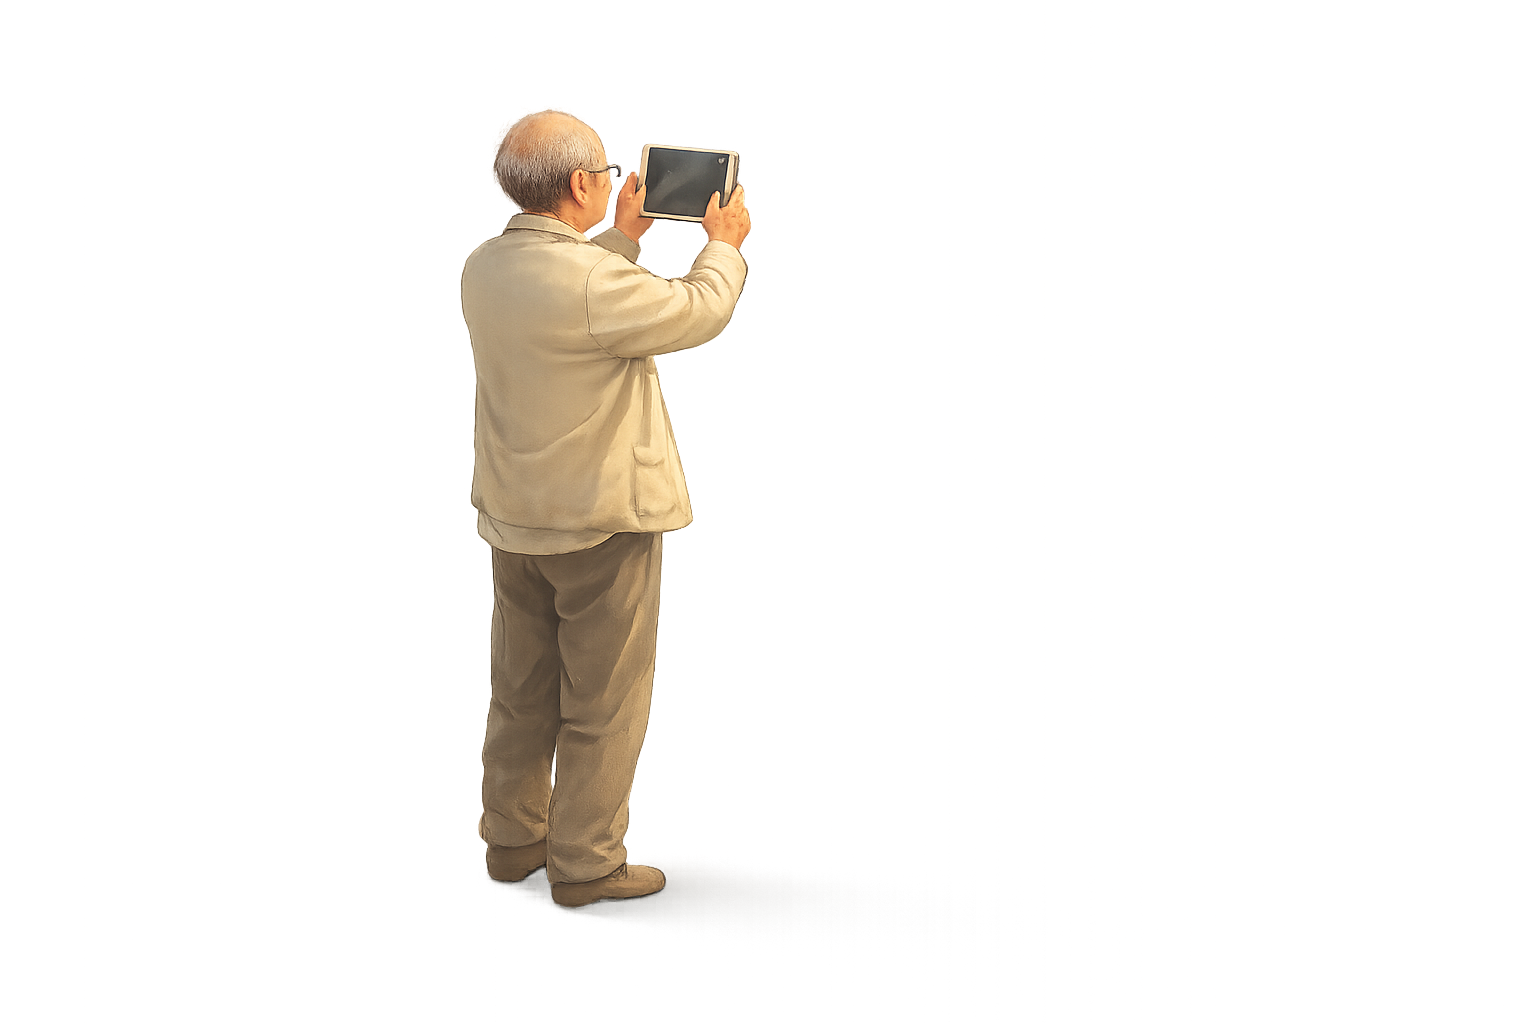
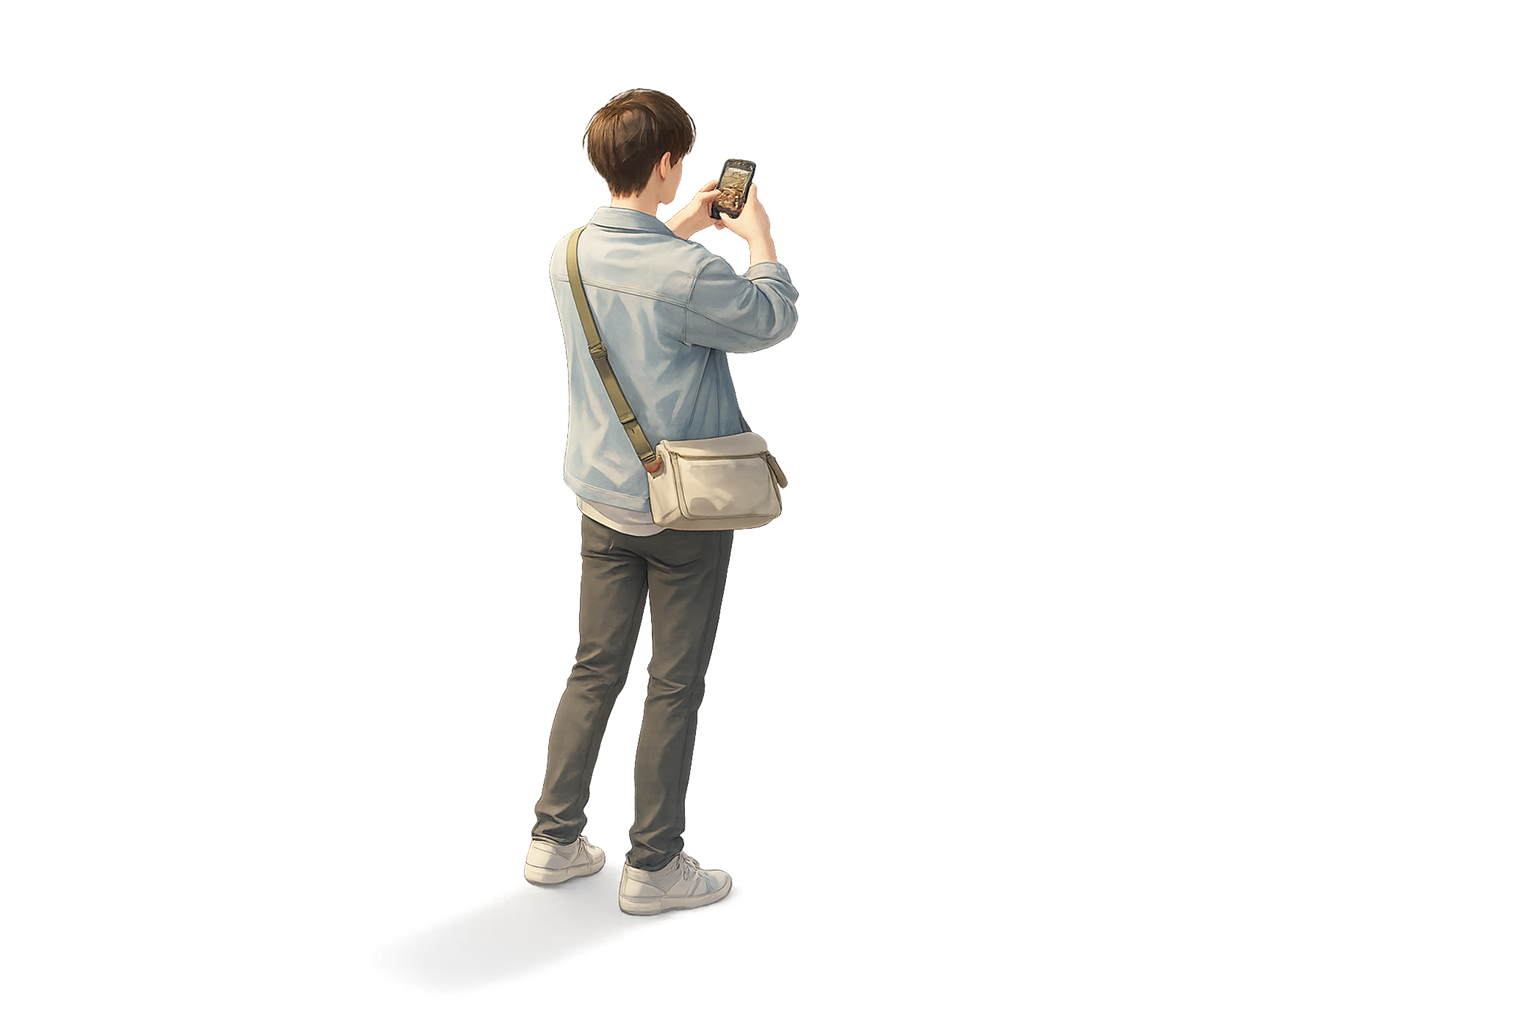
new im

Changed region(s): [[0.2812, 0.0625, 0.5312, 0.9375]]

diff --git a/src/Manifesto.tsx b/src/Manifesto.tsx
@@ -135,7 +135,7 @@ const ROLE = {
   },
   viewer: {
     heading: 'Who sees it',
-    pos: { right: '10%', top: '24%' } as React.CSSProperties,
+    pos: { right: '10%', top: '8%' } as React.CSSProperties,
     align: 'flex-end' as const,
     cardBelow: true,
     pull: -34,
@@ -313,20 +313,20 @@ function ConceptionCard({ text }: { text: string }) {
         style={{
           display: 'flex',
           alignItems: 'center',
-          gap: 10,
+          gap: 7,
           fontFamily: FONT,
-          fontSize: 13,
+          fontSize: 11.5,
           fontWeight: 600,
-          color: '#7a4d2b',
+          color: 'rgba(0, 0, 0, 0.55)',
           marginBottom: 10,
         }}
       >
         <span
           className="material-symbols-rounded"
           style={{
-            fontSize: 30,
+            fontSize: 20,
             lineHeight: 1,
-            color: '#7a4d2b',
+            color: 'rgba(0, 0, 0, 0.55)',
             fontVariationSettings: "'wght' 300, 'FILL' 0, 'GRAD' 0, 'opsz' 48",
           }}
         >
@@ -337,9 +337,9 @@ function ConceptionCard({ text }: { text: string }) {
       <div
         style={{
           fontFamily: SERIF,
-          fontSize: 'clamp(26px, 2.4vw, 38px)',
+          fontSize: 'clamp(18px, 1.5vw, 28px)',
           lineHeight: 1.02,
-          color: '#7a4d2b',
+          color: 'rgba(0, 0, 0, 0.55)',
           marginBottom: description ? 12 : 0,
         }}
       >
@@ -689,7 +689,8 @@ export default function Manifesto() {
         )
       })}
 
-      {/* Final synthesis slide */}
+      {/* Final synthesis slide — mirrors the intro: text left, full-bleed
+          morphing animation filling the right column. */}
       <div
         ref={finalRef}
         style={{
@@ -699,23 +700,38 @@ export default function Manifesto() {
           pointerEvents: 'none',
           zIndex: 8,
           display: 'grid',
-          gridTemplateColumns: 'repeat(auto-fit, minmax(min(100%, 340px), 1fr))',
-          alignItems: 'center',
-          gap: 'clamp(32px, 6vw, 96px)',
-          padding: 'clamp(36px, 8vw, 120px)',
+          gridTemplateColumns: '1fr 1fr',
           background: 'rgba(245, 241, 234, 0.42)',
           backdropFilter: 'blur(3px)',
           WebkitBackdropFilter: 'blur(3px)',
         }}
       >
+        {/* Left — the synthesis text */}
         <div
           style={{
-            position: 'relative',
-            width: 'min(440px, 72vw)',
-            aspectRatio: '1 / 1',
-            justifySelf: 'center',
+            display: 'flex',
+            alignItems: 'center',
+            padding: 'clamp(36px, 6vw, 120px)',
+            fontFamily: SERIF,
+            fontSize: 'clamp(26px, 3.6vw, 52px)',
+            lineHeight: 1.12,
+            color: 'rgba(0, 0, 0, 0.74)',
           }}
         >
+        <div>
+          <span style={{ display: 'block' }}>The image has moved from</span>
+          <span style={{ display: 'block' }}>hand-made interpretation</span>
+          <span style={{ display: 'block' }}>to mechanical trace</span>
+          <span style={{ display: 'block' }}>to editable networked signal</span>
+          <span style={{ display: 'block' }}>to algorithmic model</span>
+          <span style={{ display: 'block' }}>
+            until the world itself is no longer required for the image to exist.
+          </span>
+        </div>
+        </div>
+
+        {/* Right — full column width/height morphing animation */}
+        <div style={{ position: 'relative', overflow: 'hidden' }}>
           {SLIDES.map((s, idx) => (
             <img
               key={s.src}
@@ -727,33 +743,12 @@ export default function Manifesto() {
                 inset: 0,
                 width: '100%',
                 height: '100%',
-                objectFit: s.src === '/networked.png' ? 'cover' : 'cover',
-                borderRadius: 6,
-                boxShadow: '0 30px 90px rgba(0, 0, 0, 0.42)',
+                objectFit: 'cover',
                 opacity: finalImageIndex === idx ? 1 : 0,
                 transition: 'opacity 650ms ease',
               }}
             />
           ))}
-        </div>
-        <div
-          style={{
-            justifySelf: 'start',
-            maxWidth: 620,
-            fontFamily: SERIF,
-            fontSize: 'clamp(26px, 3.6vw, 52px)',
-            lineHeight: 1.12,
-            color: 'rgba(0, 0, 0, 0.74)',
-          }}
-        >
-          <span style={{ display: 'block' }}>The image has moved from</span>
-          <span style={{ display: 'block' }}>hand-made interpretation</span>
-          <span style={{ display: 'block' }}>to mechanical trace</span>
-          <span style={{ display: 'block' }}>to editable networked signal</span>
-          <span style={{ display: 'block' }}>to algorithmic model</span>
-          <span style={{ display: 'block' }}>
-            until the world itself is no longer required for the image to exist.
-          </span>
         </div>
       </div>
 
